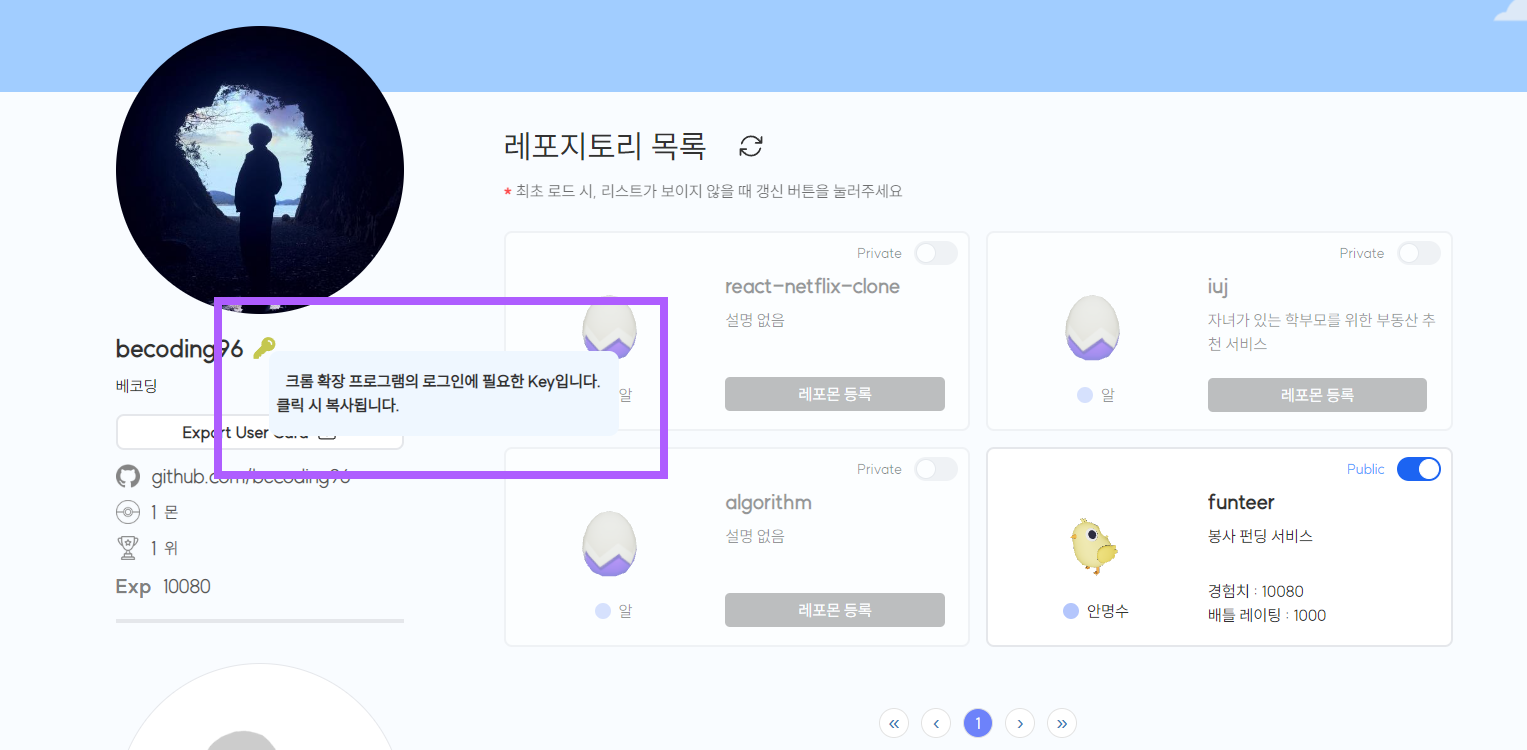
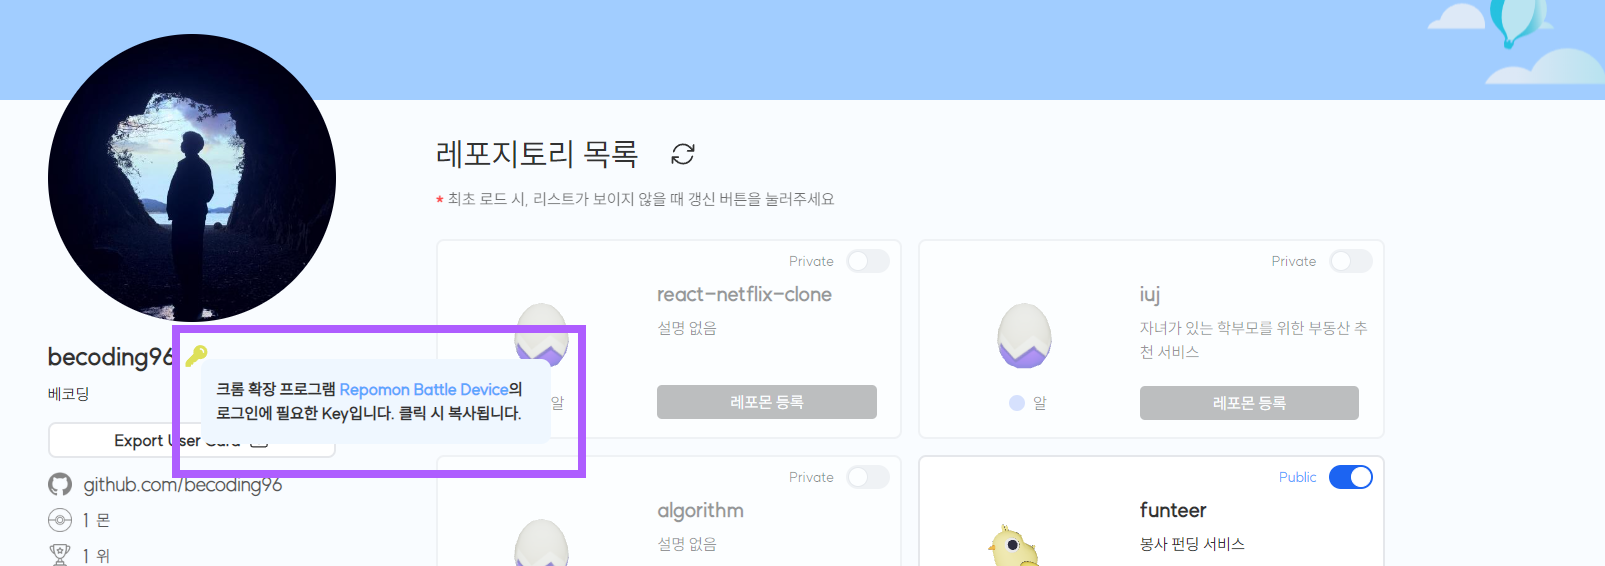
[FE] Feat : docs-page 익스텐션 추가

diff --git a/front/src/app/docs/page.tsx b/front/src/app/docs/page.tsx
@@ -472,7 +472,7 @@ function Page() {
               <a href='https://chrome.google.com/webstore/category/extensions?hl=ko' className='text-indigo-500'>
                 크롬 웹스토어
               </a>
-              에서 <strong>Repomon</strong> 을 검색합니다.
+              에서 <strong>Repomon Battle Device</strong> 을 검색합니다.
             </li>
             <li>
               <strong>Chrome에 추가 버튼</strong>을 클릭하여 설치합니다.
